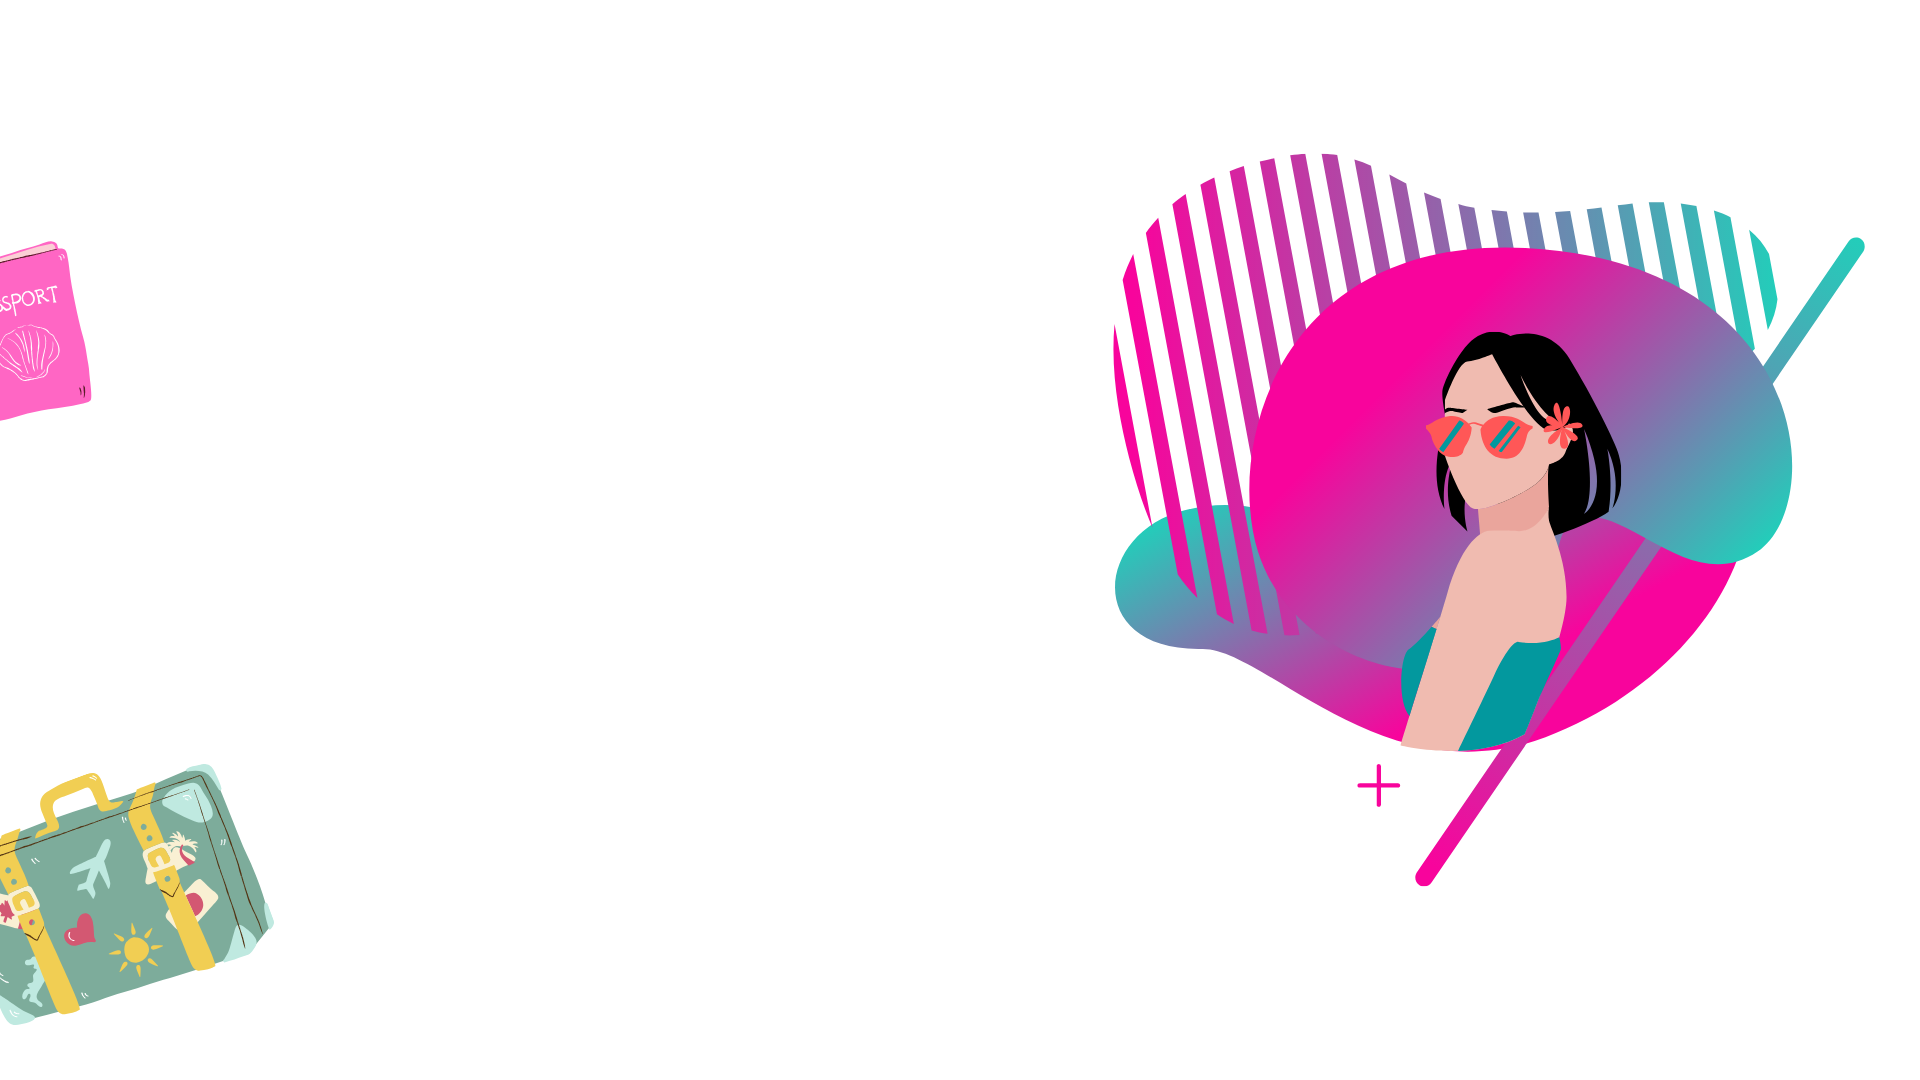
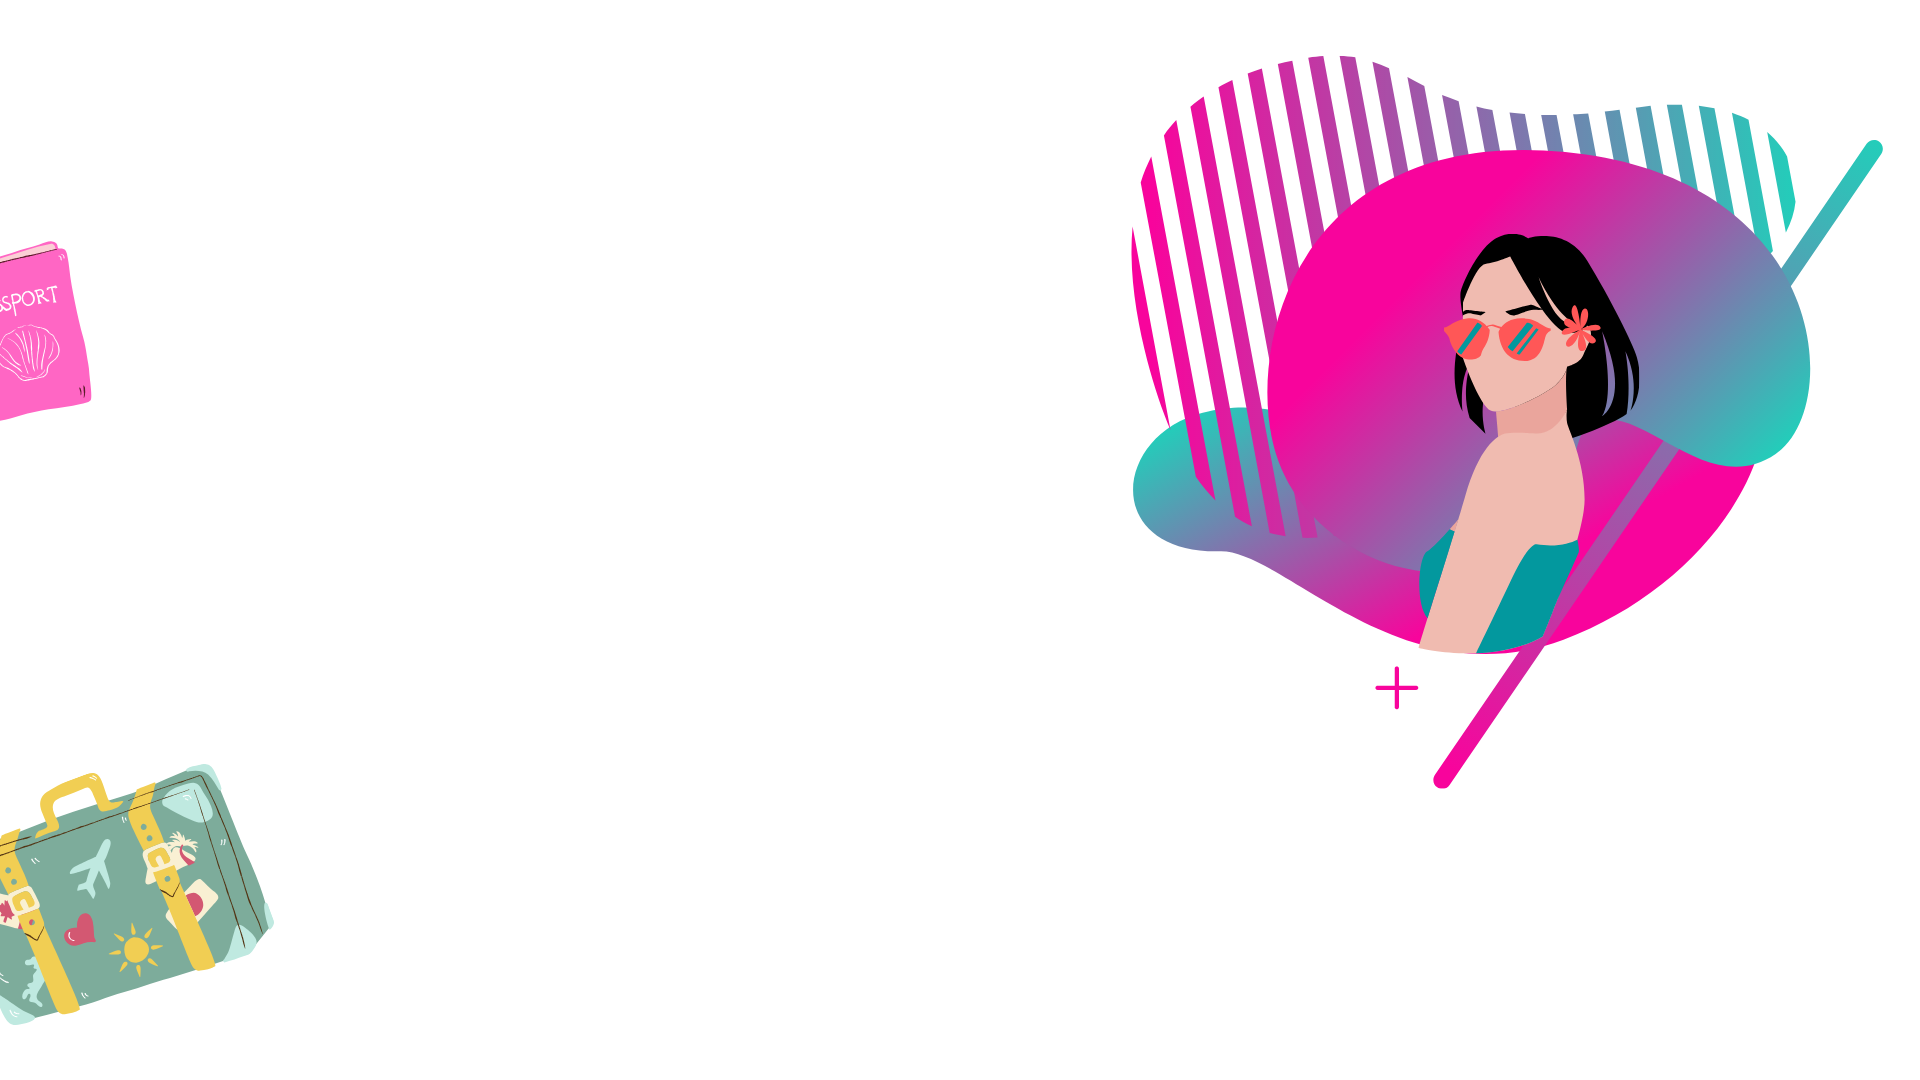
add section home menu on html

Changed region(s): [[0.5625, 0.0306, 0.9688, 0.7944], [0.9688, 0.1222, 1.0, 0.1528], [0.7188, 0.7944, 0.75, 0.825]]

diff --git a/src/css/components/home.css b/src/css/components/home.css
@@ -1,32 +1,41 @@
 @import url("https://fonts.googleapis.com/css2?family=Scheherazade&display=swap");
 @import url("https://fonts.googleapis.com/css2?family=Fredoka+One&display=swap");
+@import url("https://fonts.googleapis.com/css2?family=Hammersmith+One&display=swap");
 
 @font-face {
   font-family: league-spartan;
   src: url("../../fonts/leaguespartan-bold.woff");
 }
 
-#home {
+h1 {
+  font-family: league-spartan, Arial, Helvetica, sans-serif;
+}
+
+.center {
+  left: 50%;
+  transform: translate(-50%, -50%);
+}
+
+#home-header {
   background: white;
   position: relative;
 }
 
-#home img {
+#home-header img {
   width: 100%;
 }
 
-.title-header {
+#home-header .title-header {
   position: absolute;
   top: 10%;
   width: 30%;
 }
 
-.title-header h1 {
+#home-header .title-header h1 {
   font-size: 36px;
-  font-family: league-spartan, Arial, Helvetica, sans-serif;
 }
 
-.title-header p {
+#home-header .title-header p {
   font-family: "Scheherazade", serif;
   font-size: 18px;
 }
@@ -35,27 +44,84 @@
   position: absolute;
   top: 135%;
   width: 70%;
-  left: 50%;
-  transform: translate(-50%, -50%);
 }
 
-.card {
+#home-about .card {
   border-radius: 25px;
 }
 
-.card-title {
+#home-about .card-title {
   font-family: "Fredoka One", cursive;
   text-align: center;
 }
 
+#home-featured {
+  position: relative;
+  width: 100%;
+  background-image: url("../../images/HOME-BG-2.png");
+  background-size: 100%;
+  height: 720px;
+  background-repeat: no-repeat;
+  color: black;
+}
+
+#home-menu-title {
+  top: 35%;
+  position: absolute;
+  text-align: center;
+}
+
+#home-menu-title h1 {
+  font-size: 32px;
+}
+#home-menu-title p {
+  line-height: 0.2;
+  font-size: 15px;
+}
+
+#home-menu-item {
+  position: absolute;
+  top: 65%;
+  width: 80%;
+}
+
+#home-menu-item .card {
+  position: relative;
+  width: 220px;
+  height: 220px;
+  text-align: center;
+  border-radius: 50%;
+  background: #ff66c4; /* fallback for old browsers */
+  background: -webkit-linear-gradient(
+    to top,
+    #03989e,
+    #ff66c4
+  ); /* Chrome 10-25, Safari 5.1-6 */
+  background: linear-gradient(
+    to top,
+    #03989e,
+    #ff66c4
+  ); /* W3C, IE 10+/ Edge, Firefox 16+, Chrome 26+, Opera 12+, Safari 7+ */
+  font-family: "Hammersmith One", sans-serif;
+}
+
+#home-menu-item .card > .card-content {
+  top: 50%;
+  position: absolute;
+}
+
+#home-menu-item .card-content h1 {
+  font-size: 35px;
+}
+
 @media only screen and (max-width: 767px) {
-  #home img {
+  #home-header img {
     height: 480px;
     object-fit: cover;
     object-position: left;
   }
 
-  .title-header {
+  #home-header .title-header {
     text-align: center;
     top: 35%;
     left: 50%;
@@ -64,11 +130,11 @@
 }
 
 @media only screen and (min-width: 768px) {
-  .title-header h1 {
+  #home-header .title-header h1 {
     font-size: 54px;
   }
 
-  .title-header p {
+  #home-header .title-header p {
     font-size: 20px;
   }
 
@@ -83,30 +149,28 @@
 /* Laptop */
 
 @media (min-width: 1024px) {
-  .title-header h1 {
+  #home-header .title-header h1 {
     font-size: 72px;
   }
 
-  .title-header p {
-    font-size: 35px;
+  #home-header .title-header p {
+    font-size: 30px;
   }
 
   #home-about {
     width: 70%;
-    top: 115%;
-    left: 50%;
-    transform: translate(-50%, -50%);
+    top: 10%;
   }
 }
 
 /* Ekstra large screen */
 
 @media (min-width: 1200px) {
-  .title-header h1 {
+  #home-header .title-header h1 {
     font-size: 72px;
   }
 
-  .title-header p {
+  #home-header .title-header p {
     font-size: 35px;
   }
 

diff --git a/src/components/home.html b/src/components/home.html
@@ -1,43 +1,42 @@
-<div id="home">
-  <img src="../src/images/HOME-BG.png" />
-  <div class="container">
-    <div class="title-header">
-      <h1>Plan, Prepare & Travel.</h1>
-      <P>Allow you to focus having a good time</P>
+<div>
+  <div id="home-header">
+    <div class="container">
+      <div class="title-header">
+        <h1>Plan, Prepare & Travel.</h1>
+        <P>Focus on having a good time</P>
+      </div>
     </div>
+    <img src="../src/images/HOME-BG.png" />
   </div>
-  <div id="home-about" class="row">
-    <!-- <div class="row"> -->
-    <!-- <div class="col s12 m4">
-        <div class="card  cyan darken-2">
-          <div class="card-content white-text">
-            <span class="card-title">Don't forget the Essential Thing</span>
-            <p>
-              Choose Specific Items for Your Destination.
-            </p>
+
+  <div id="home-featured">
+    <div id="home-about" class="row center"></div>
+    <div id="home-menu-title" class="center">
+      <h1>What You Have To Prepare</h1>
+      <p>here are some option that you can find in this web app</p>
+    </div>
+    <div id="home-menu-item" class="row center">
+      <div class="col s12 m4">
+        <div class="card">
+          <div class="card-content white-text center">
+            <h1>List Travel Kit</h1>
           </div>
         </div>
       </div>
       <div class="col s12 m4">
-        <div class="card  cyan darken-2">
-          <div class="card-content white-text">
-            <span class="card-title">Carry As Little With You As Possible</span>
-            <p>
-              Lightweight Luggage makes the trip easier.
-            </p>
+        <div class="card">
+          <div class="card-content white-text center">
+            <h1>List Travel Kit</h1>
           </div>
         </div>
       </div>
       <div class="col s12 m4">
-        <div class="card  cyan darken-2">
-          <div class="card-content white-text">
-            <span class="card-title">Avoid The Most Mistake Carrying</span>
-            <p>
-              Eliminate Unnecessary Problem
-            </p>
+        <div class="card">
+          <div class="card-content white-text center">
+            <h1>List Travel Kit</h1>
           </div>
         </div>
-      </div> -->
-    <!-- </div> -->
+      </div>
+    </div>
   </div>
 </div>

diff --git a/src/js/view.js b/src/js/view.js
@@ -4,12 +4,12 @@ import List from "../components/container/list.js";
 
 const main = () => {
   // Activate sidebar nav
-  var elems = document.querySelectorAll(".sidenav");
+  const elems = document.querySelectorAll(".sidenav");
   M.Sidenav.init(elems);
   loadNav();
 
   function loadNav() {
-    var xhttp = new XMLHttpRequest();
+    let xhttp = new XMLHttpRequest();
     xhttp.onreadystatechange = function() {
       if (this.readyState == 4) {
         if (this.status != 200) return;
@@ -53,13 +53,11 @@ const main = () => {
         if (this.status == 200) {
           try {
             content.innerHTML = xhttp.responseText;
-
-            const a = document.querySelector("#home-about");
-            console.log(a);
-            const b = new List(a, "home-item", dataHome);
-            b.render();
-
-            console.log(b);
+            if ((page = "home")) {
+              const elementHome = document.querySelector("#home-about");
+              const listHome = new List(elementHome, "home-item", dataHome);
+              listHome.render();
+            }
           } catch (error) {}
         } else if (this.status == 404) {
           content.innerHTML = "<p>Halaman tidak ditemukan.</p>";

diff --git a/nav.html b/nav.html
@@ -1,3 +1,4 @@
 <li><a class="waves-effect" href="#home">Home</a></li>
-<li><a class="waves-effect" href="#about">About Me</a></li>
-<li><a class="waves-effect" href="#contact">Contact</a></li>
+<li><a class="waves-effect" href="#kit">Travel Kit</a></li>
+<li><a class="waves-effect" href="#destination">Destination</a></li>
+<li><a class="waves-effect" href="#contact">Tips</a></li>

diff --git a/src/components/container/list.js b/src/components/container/list.js
@@ -1,11 +1,8 @@
 class List {
   constructor(selector, item, data) {
-    // const selectorElement = document.querySelector(selector);
-
     this.selector = selector;
     this.listElement = item;
     this.data = data;
-    console.log(this.listElement);
   }
 
   render() {
